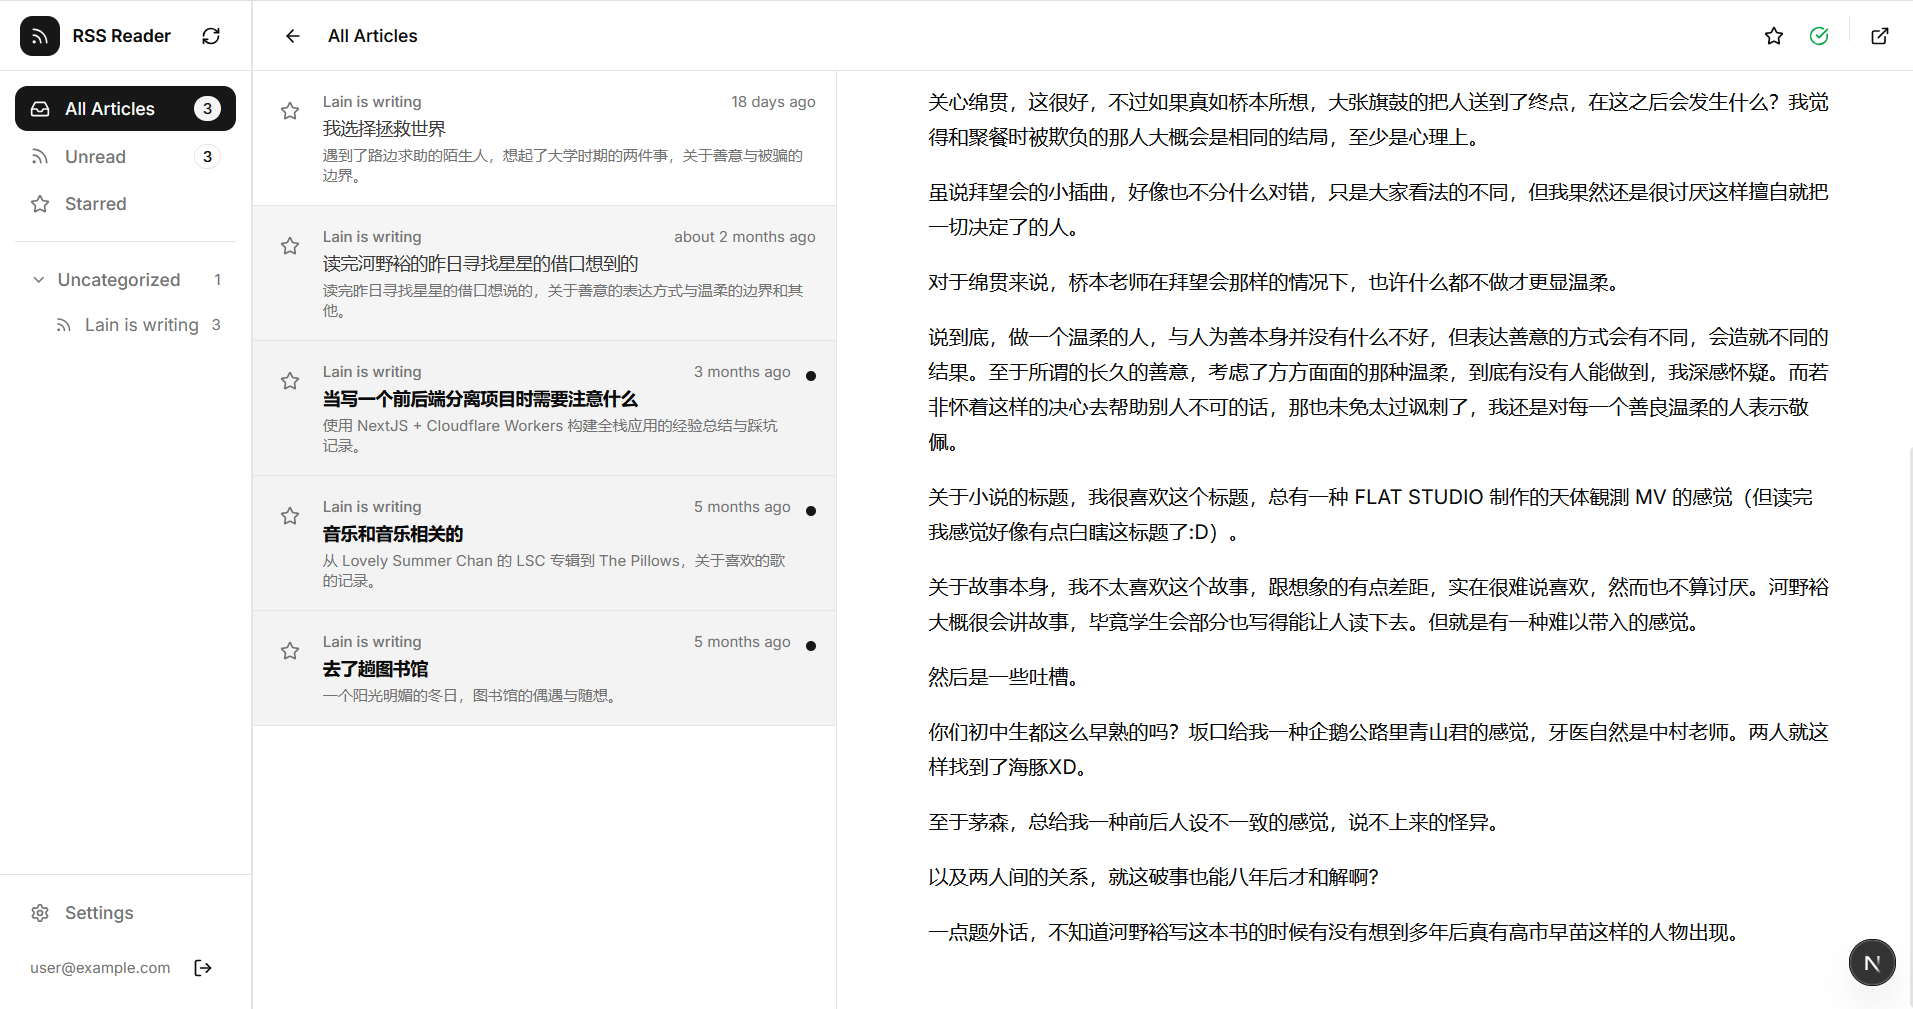
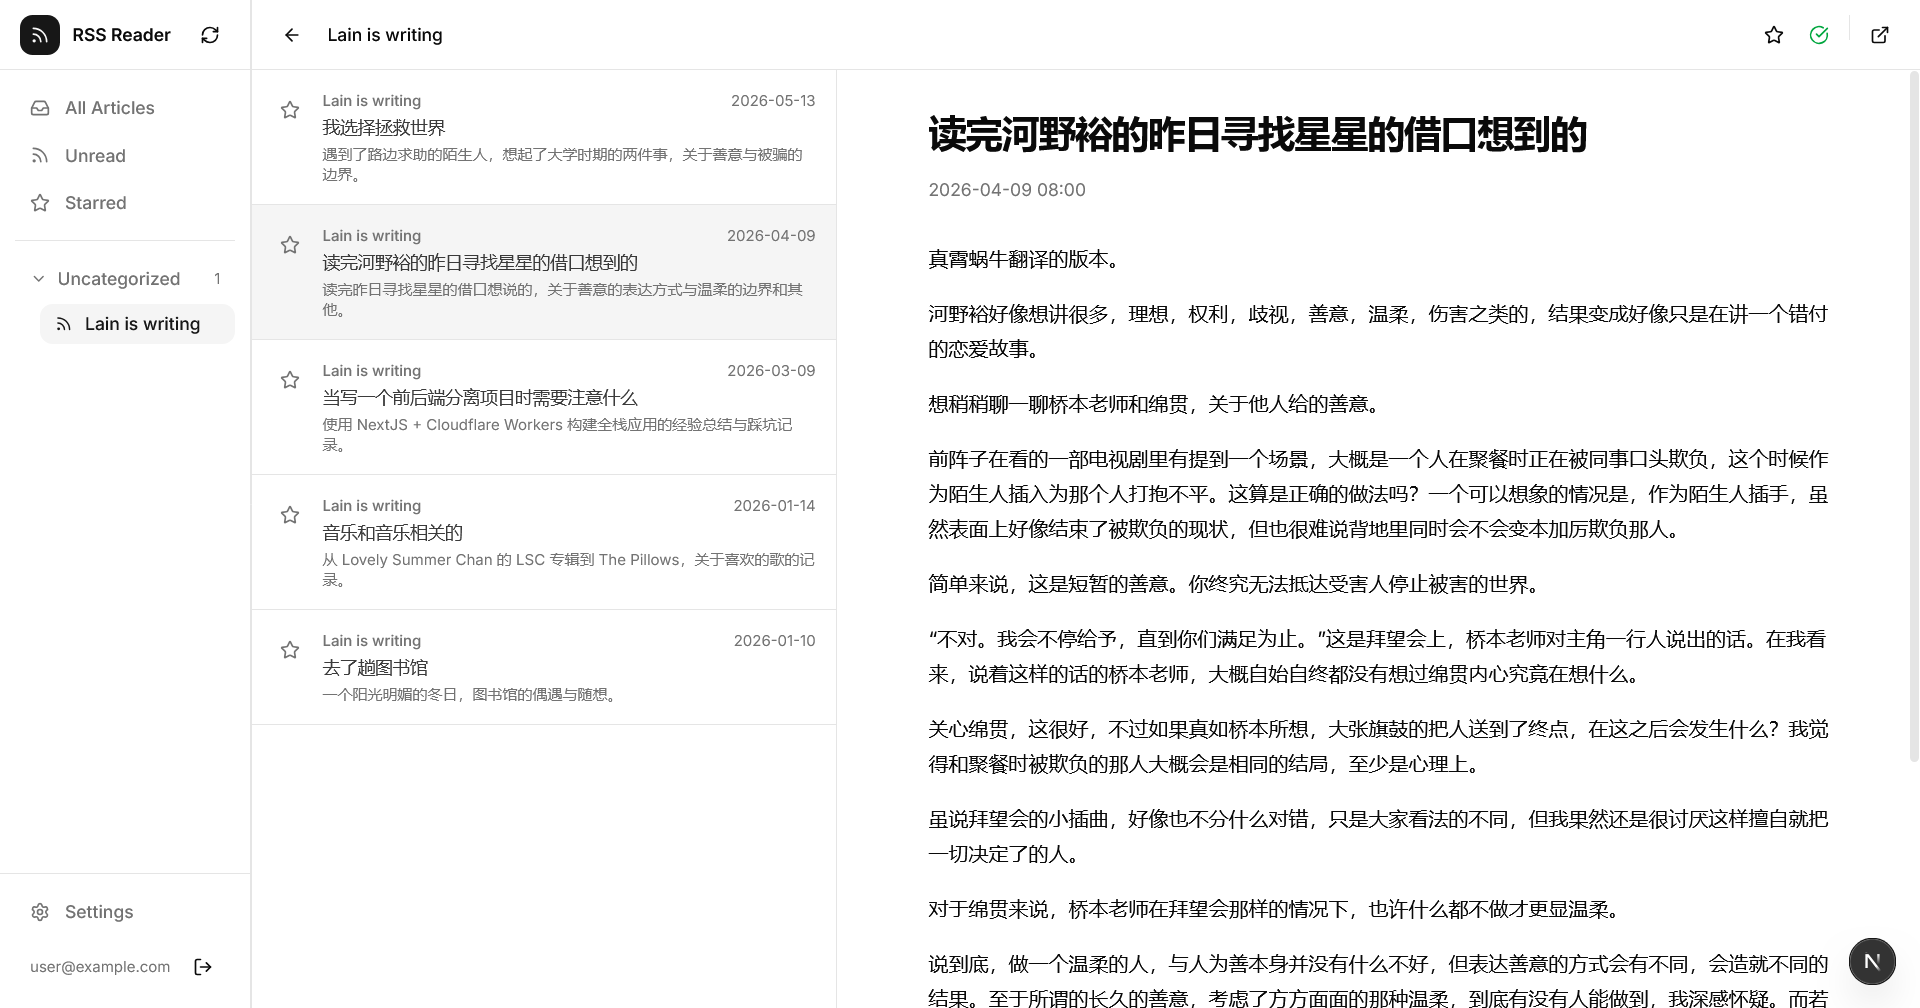
docs: 更新文档

diff --git a/README.md b/README.md
@@ -27,15 +27,6 @@
 - ✅ 分类管理订阅源
 - ✅ 确认对话框（危险操作）
 
-### 快捷键
-| 按键 | 功能 |
-|------|------|
-| J | 下一篇文章 |
-| K | 上一篇文章 |
-| S | 切换收藏 |
-| M | 切换已读状态 |
-| O | 打开原文链接 |
-
 ## 技术栈
 
 ### 后端